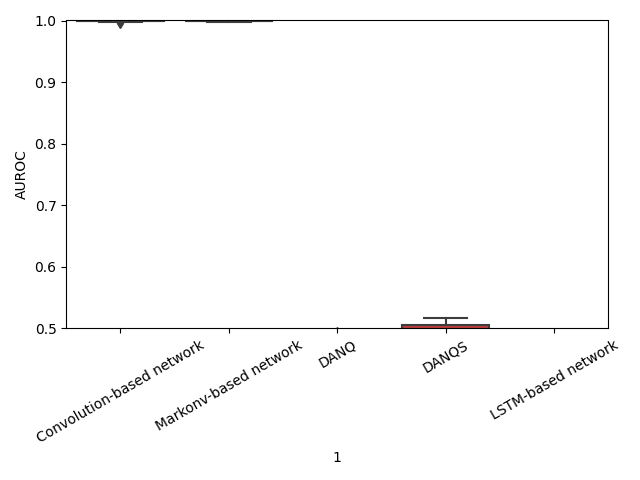
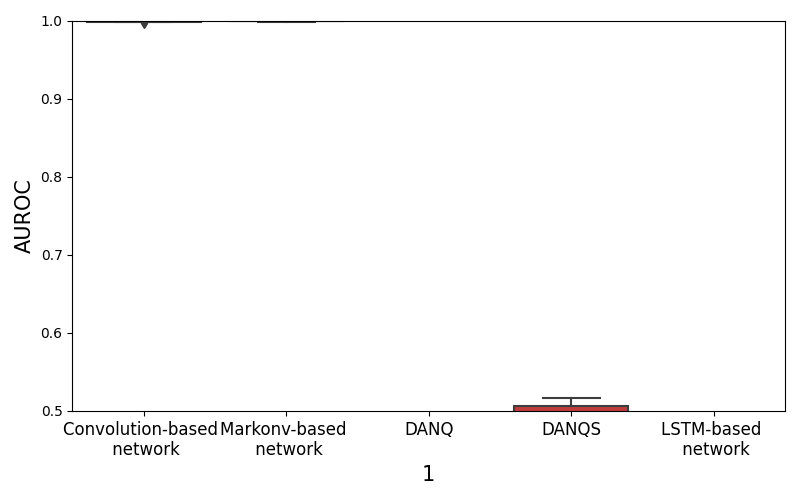
update the figures

diff --git a/scripts/simulation2merShuffle/Compare.py b/scripts/simulation2merShuffle/Compare.py
@@ -46,11 +46,12 @@ def Draw(path, ModeltypeDict, dataname):
 	Pddict = pd.DataFrame(ModeltypeDict)
 	#print('std')
 	#print(Pddict.std())
+	plt.figure(figsize=(8, 5))
 	ax = sns.boxplot(data=Pddict)
-	ax.set_xticklabels(ax.get_xticklabels(), rotation=30)
+	ax.set_xticklabels(ax.get_xticklabels(), fontsize=12, rotation=0)
 	plt.ylim(0.5, 1)
-	plt.ylabel("AUROC")
-	plt.xlabel(str(dataname))
+	plt.ylabel("AUROC", fontsize=15)
+	plt.xlabel(str(dataname), fontsize=15)
 	plt.tight_layout()
 	# Pddict.boxplot()
 	plt.savefig(path + "auc.png")
@@ -79,15 +80,15 @@ def Main():
 			resultPath = path+str(dataname)+"/"
 			auclist = loadResult(resultPath+Mtype+"/")
 			if Mtype == "MarkonvV":
-				ResultDict["Markonv-based network"] = auclist
+				ResultDict["Markonv-based \n network"] = auclist
 			elif Mtype == "CNN":
-				ResultDict["Convolution-based network"] = auclist
+				ResultDict["Convolution-based \n network"] = auclist
 			elif Mtype == "DANQ":
 				ResultDict["DANQ"] = auclist
 			elif Mtype == "DANQS":
 				ResultDict["DANQS"] = auclist
 			elif Mtype == "LSTM":
-				ResultDict["LSTM-based network"] = auclist
+				ResultDict["LSTM-based \n network"] = auclist
 			mkdir("../../result/simulation2merShuffle/files.2/")
 
 			np.savetxt("../../result/simulation2merShuffle/files.2/"+str(dataname)+"_"+Mtype+"_auc.txt", np.asarray(auclist))

diff --git a/scripts/HOCNNLB/robust.py b/scripts/HOCNNLB/robust.py
@@ -60,14 +60,13 @@ def Draw(path, ModeltypeDict):
     # draw box plot
 
     Pddict = pd.DataFrame(ModeltypeDict)
-
-    plt.figure(figsize=(16, 5))
+    plt.figure(figsize=(10, 15))
     plt.rc('font', family='Times New Roman')
-    ax = sns.boxplot(data=Pddict,saturation=0.4)
-    ax.set_xticklabels(ax.get_xticklabels(), rotation=30)
-    plt.ylim(0.5, 1.09)
-    plt.ylabel("AUROC",fontsize= 15)
-    plt.xlabel("RBP names",fontsize= 15)
+    ax = sns.boxplot(data=Pddict,saturation=0.4,orient="h")
+    # ax.set_xticklabels(ax.get_xticklabels(), fontsize=5 , rotation=0)
+    plt.xlim(0.5, 1)
+    plt.ylabel("RBP names",fontsize= 15)
+    plt.xlabel("AUROC",fontsize= 15)
     plt.title("AUROC distribution across all 31 RBP datasets", fontsize=15)
     # Pddict.boxplot()
 

diff --git a/scripts/HOCNNLB/Compare.py b/scripts/HOCNNLB/Compare.py
@@ -79,10 +79,10 @@ def Draw(path, ModeltypeDict):
 
     # Pddict.drop()
     Pddict = Pddict[cols]
-    plt.figure(figsize=(6, 5))
+    plt.figure(figsize=(10, 5))
     plt.rc('font', family='Times New Roman')
     ax = sns.boxplot(data=Pddict,saturation=0.4)
-    ax.set_xticklabels(ax.get_xticklabels(), rotation=30)
+    ax.set_xticklabels(ax.get_xticklabels(), rotation=0)
     plt.ylim(0.5, 1.09)
     plt.ylabel("AUROC",fontsize= 15)
     plt.xlabel("networks",fontsize= 15)
